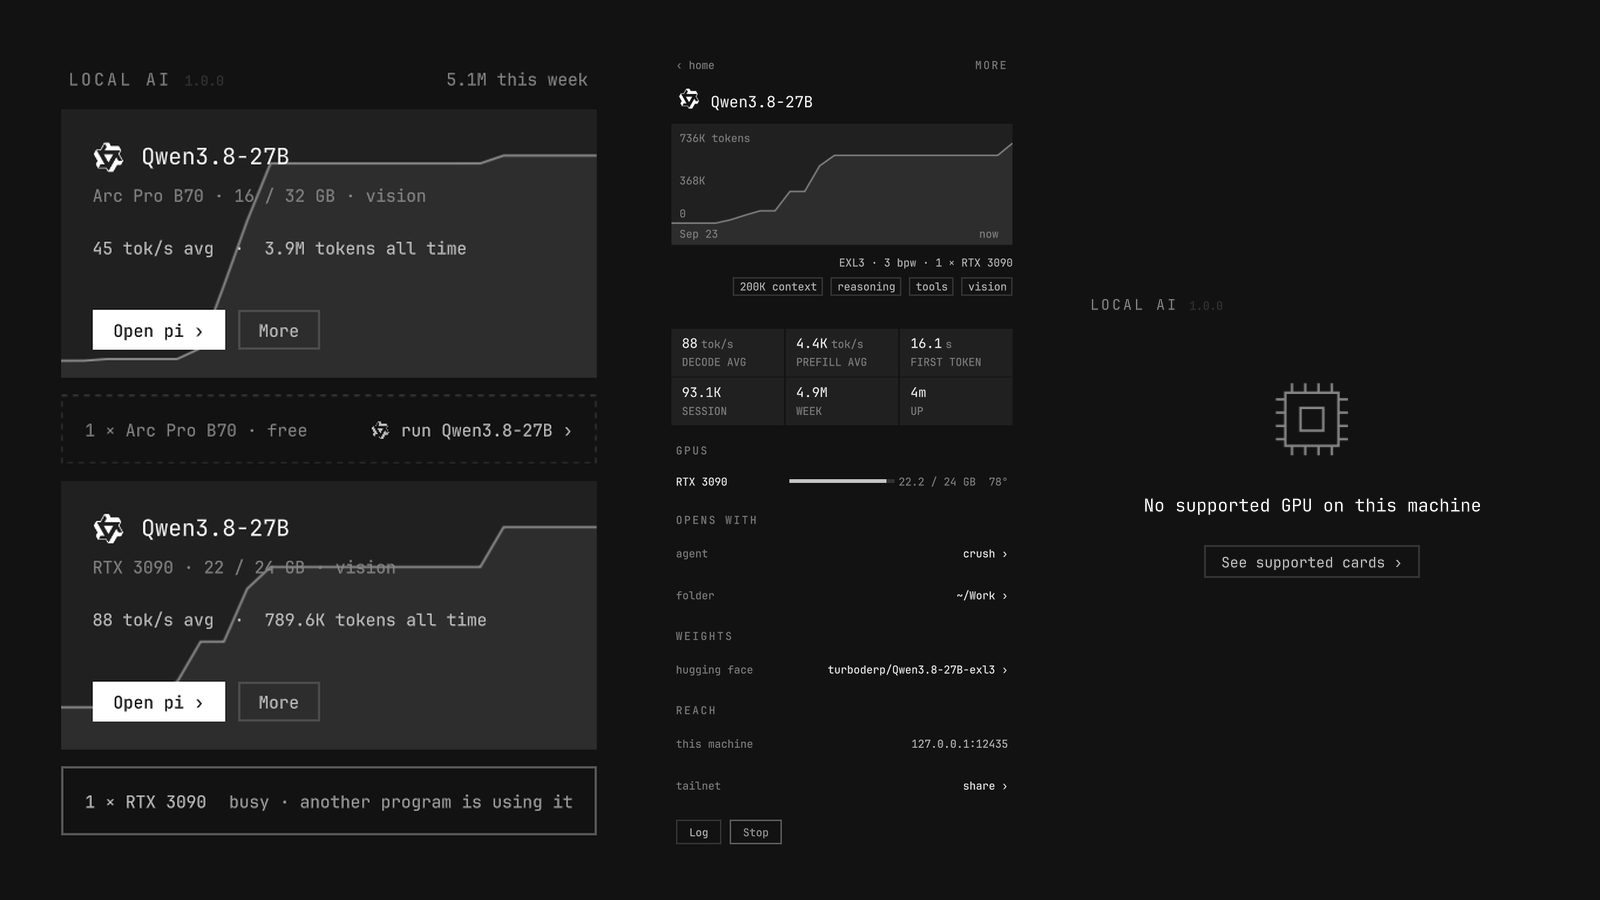
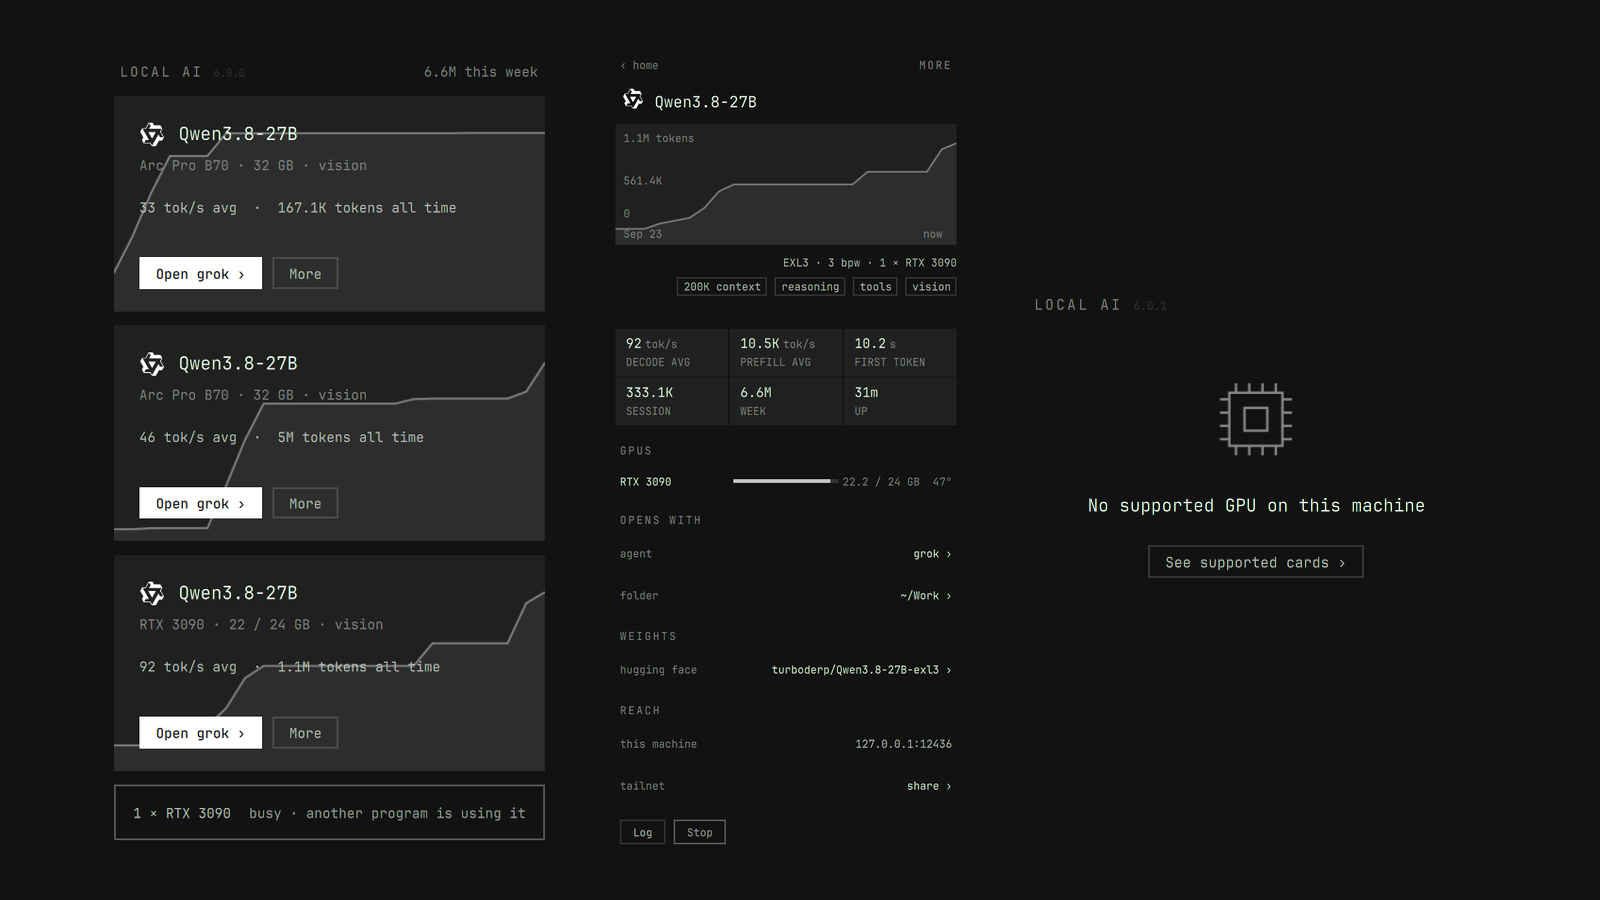
6.0.1: the view model tested against the backend's snapshots, a secret scan, the 6.0.1 changelog
Claude-Session: https://claude.ai/code/session_01RrwFg9ozU89evijh8F1SiK

diff --git a/CHANGELOG.md b/CHANGELOG.md
@@ -2,6 +2,22 @@
 
 Versions follow semver and live in `manifest.json`. Every release is a tag `vX.Y.Z` on `main` and a GitHub release. The marketplace listing only ever targets a tagged release commit. See "Releasing" in `docs/design.md`.
 
+## [6.0.1] - 2026-09-24
+
+### Fixed
+- A model a 5.x install left running showed as another program's, holding its card with nothing able to stop it. It is now taken over on the first snapshot: it shows as running and Stop takes it down.
+- On a machine with two cards of the same kind, the free card's Run failed with "already running". A second copy of the model now runs on it, on its own port.
+- A second copy's load percentage reached 95 in a minute and sat there; loads are now paced by the recipe's last load on any card.
+- A snapshot the panel cannot read is shown as an error instead of as a machine with no GPU.
+- Intel cards show how much memory they have instead of an estimate of what is used; the xe driver does not report it.
+
+### Changed
+- The bar mark is nine dots: faint when idle, lit when a model is ready, red when one failed, a ripple while one starts.
+- No supported GPU is one line, a drawn chip and the link to the supported cards.
+
+### Added
+- CI builds the panel's views from the backend's own snapshots under node, and scans the tree for secrets with gitleaks.
+
 ## [6.0.0] - 2026-09-23
 
 Version 6 is a rebuild: the same files proposed for Omarchy itself in omacom/omarchy#13036, one bash backend, one view model, one panel and one data file. A model 5.x left running is taken over on the first snapshot: it shows as running and Stop takes it down.
